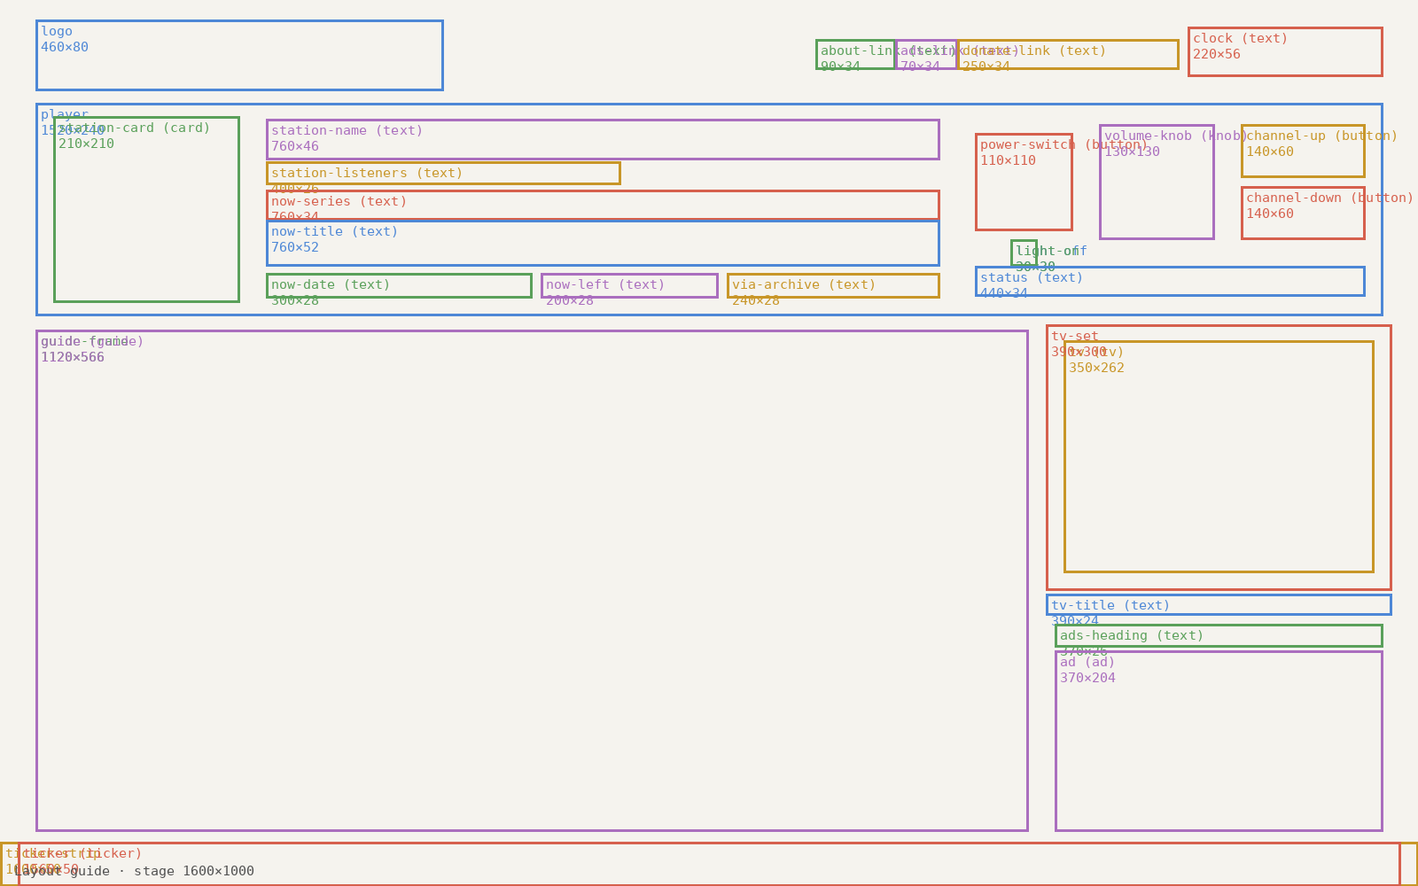
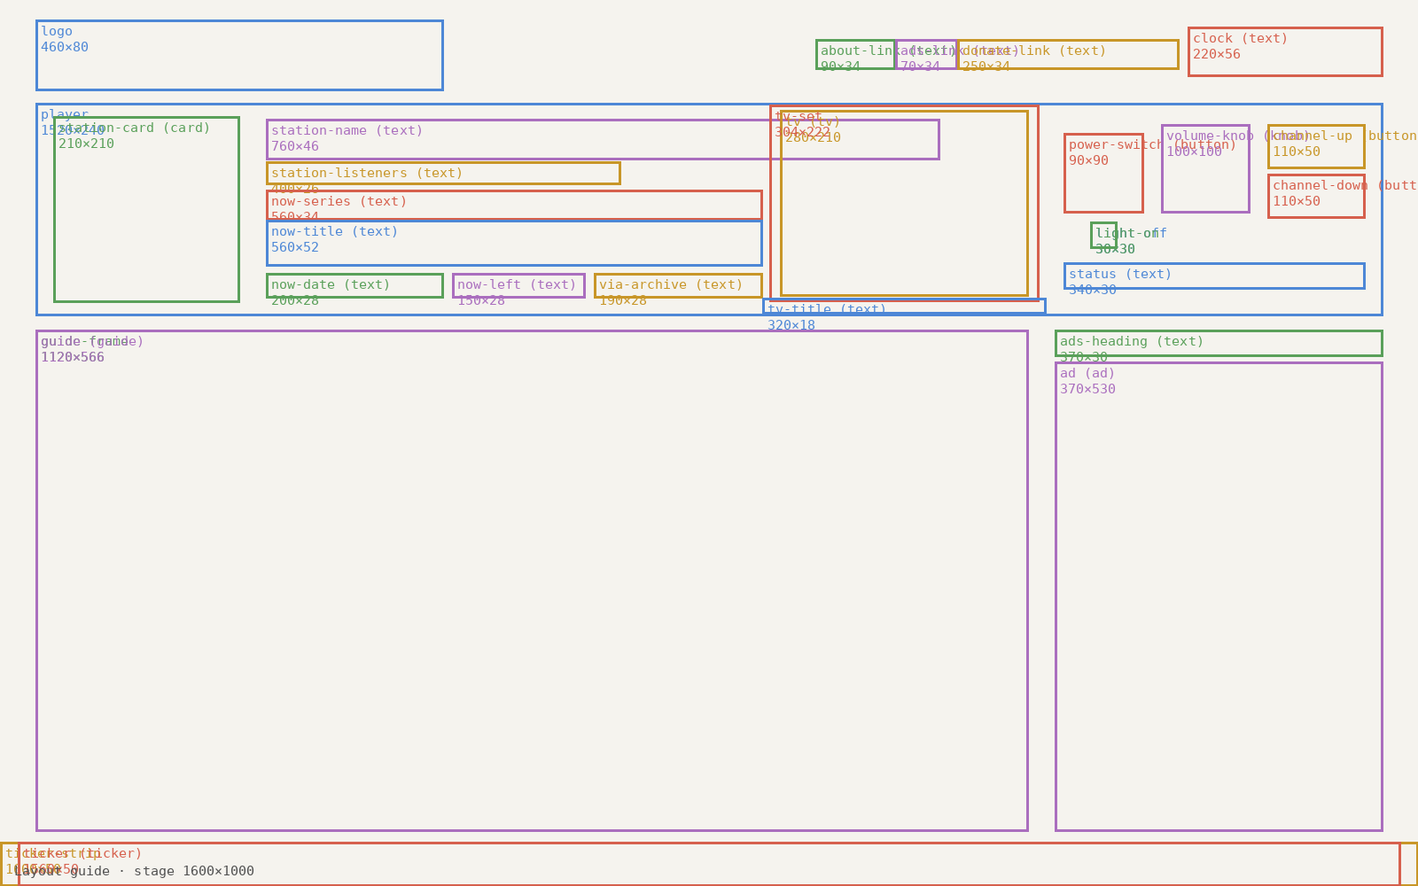
Bigger ads: TV moves into the player panel, click an ad to see it full size
Claude-Session: https://claude.ai/code/session_01UM36a5p91q7GWVyKDjccjV

Changed region(s): [[0.3125, 0.124, 1.0, 0.775]]

diff --git a/skin.js b/skin.js
@@ -6,144 +6,75 @@
    for phones held upright. Press E on the radio to drag pieces into place, then
    "Copy skin.js" and paste the result over this file. README.md lists every option. */
 window.SKIN = {
-  "stage": { "width": 1600, "height": 1000, "color": "#211c18" },
-
-  "fonts": [
-    { "family": "Radio Hand", "src": "art/fonts/your-font.woff2" }
-  ],
-
-  "sound": { "level": true, "declick": 0.5, "tone": 9000 },
-
-  "sounds": {
-    "static": "art/sounds/static.mp3"
-  },
-
+  "stage": {"width":1600,"height":1000,"color":"#211c18"},
+  "fonts": [{"family":"Radio Hand","src":"art/fonts/your-font.woff2"}],
+  "sound": {"level":true,"declick":0.5,"tone":9000},
+  "sounds": {"static":"art/sounds/static.mp3"},
   "layers": [
     { "id": "background", "type": "plate", "src": "art/background.png", "x": 0, "y": 0, "w": 1600, "h": 1000 },
-
     { "id": "logo", "src": "art/logo.png", "x": 40, "y": 22, "w": 460, "h": 80 },
-    { "id": "about-link", "type": "text", "text": "About", "href": "about.html",
-      "x": 920, "y": 44, "w": 90, "h": 34, "font": "Radio Hand", "size": 20, "color": "#e9dcc3", "align": "left" },
-    { "id": "ads-link", "type": "text", "text": "Ads", "href": "ads.html",
-      "x": 1010, "y": 44, "w": 70, "h": 34, "font": "Radio Hand", "size": 20, "color": "#e9dcc3", "align": "left" },
-    { "id": "donate-link", "type": "text", "text": "Donate to the Archive", "href": "https://archive.org/donate",
-      "x": 1080, "y": 44, "w": 250, "h": 34, "font": "Radio Hand", "size": 20, "color": "#e9dcc3", "align": "left" },
-    { "id": "clock", "type": "text", "bind": "clock",
-      "x": 1340, "y": 30, "w": 220, "h": 56, "font": "Radio Hand", "size": 38, "color": "#e9dcc3", "align": "right" },
-
+    { "id": "about-link", "type": "text", "text": "About", "href": "about.html", "x": 920, "y": 44, "w": 90, "h": 34, "font": "Radio Hand", "size": 20, "color": "#e9dcc3", "align": "left" },
+    { "id": "ads-link", "type": "text", "text": "Ads", "href": "ads.html", "x": 1010, "y": 44, "w": 70, "h": 34, "font": "Radio Hand", "size": 20, "color": "#e9dcc3", "align": "left" },
+    { "id": "donate-link", "type": "text", "text": "Donate to the Archive", "href": "https://archive.org/donate", "x": 1080, "y": 44, "w": 250, "h": 34, "font": "Radio Hand", "size": 20, "color": "#e9dcc3", "align": "left" },
+    { "id": "clock", "type": "text", "bind": "clock", "x": 1340, "y": 30, "w": 220, "h": 56, "font": "Radio Hand", "size": 38, "color": "#e9dcc3", "align": "right" },
     { "id": "player", "src": "art/player.png", "x": 40, "y": 116, "w": 1520, "h": 240 },
     { "id": "station-card", "type": "card", "x": 60, "y": 131, "w": 210, "h": 210 },
-    { "id": "station-name", "type": "text", "bind": "station.name",
-      "x": 300, "y": 134, "w": 760, "h": 46, "font": "Radio Hand", "size": 36, "color": "#e9dcc3", "align": "left" },
-    { "id": "station-listeners", "type": "text", "bind": "station.listeners",
-      "x": 300, "y": 182, "w": 400, "h": 26, "font": "Radio Hand", "size": 18, "color": "#b9aa90", "align": "left" },
-    { "id": "now-series", "type": "text", "bind": "now.series",
-      "x": 300, "y": 214, "w": 760, "h": 34, "font": "Radio Hand", "size": 24, "color": "#e9dcc3", "align": "left" },
-    { "id": "now-title", "type": "text", "bind": "now.title",
-      "x": 300, "y": 248, "w": 760, "h": 52, "font": "Radio Hand", "size": 34, "color": "#e9dcc3", "align": "left" },
-    { "id": "now-date", "type": "text", "bind": "now.date",
-      "x": 300, "y": 308, "w": 300, "h": 28, "font": "Radio Hand", "size": 18, "color": "#b9aa90", "align": "left" },
-    { "id": "now-left", "type": "text", "bind": "now.remaining",
-      "x": 610, "y": 308, "w": 200, "h": 28, "font": "Radio Hand", "size": 18, "color": "#b9aa90", "align": "left" },
-    { "id": "via-archive", "type": "text", "text": "via archive.org", "href": "now.item", "when": "tuned",
-      "x": 820, "y": 308, "w": 240, "h": 28, "font": "Radio Hand", "size": 18, "color": "#b9aa90", "align": "left" },
-
-    { "id": "power-switch", "type": "button", "action": "power", "src": "art/power-switch.png",
-      "x": 1100, "y": 150, "w": 110, "h": 110 },
-    { "id": "light-off", "src": "art/light-off.png", "when": "off", "x": 1140, "y": 270, "w": 30, "h": 30 },
-    { "id": "light-on", "src": "art/light-on.png", "when": "on", "x": 1140, "y": 270, "w": 30, "h": 30 },
-    { "id": "volume-knob", "type": "knob", "bind": "volume", "src": "art/knob-volume.png",
-      "x": 1240, "y": 140, "w": 130, "h": 130, "turn": [-140, 140] },
-    { "id": "channel-up", "type": "button", "action": "prev", "src": "art/channel-up.png",
-      "x": 1400, "y": 140, "w": 140, "h": 60 },
-    { "id": "channel-down", "type": "button", "action": "next", "src": "art/channel-down.png",
-      "x": 1400, "y": 210, "w": 140, "h": 60 },
-    { "id": "status", "type": "text", "bind": "status",
-      "x": 1100, "y": 300, "w": 440, "h": 34, "font": "Radio Hand", "size": 20, "color": "#e9dcc3", "align": "center" },
-
+    { "id": "station-name", "type": "text", "bind": "station.name", "x": 300, "y": 134, "w": 760, "h": 46, "font": "Radio Hand", "size": 36, "color": "#e9dcc3", "align": "left" },
+    { "id": "station-listeners", "type": "text", "bind": "station.listeners", "x": 300, "y": 182, "w": 400, "h": 26, "font": "Radio Hand", "size": 18, "color": "#b9aa90", "align": "left" },
+    { "id": "now-series", "type": "text", "bind": "now.series", "x": 300, "y": 214, "w": 560, "h": 34, "font": "Radio Hand", "size": 24, "color": "#e9dcc3", "align": "left" },
+    { "id": "now-title", "type": "text", "bind": "now.title", "x": 300, "y": 248, "w": 560, "h": 52, "font": "Radio Hand", "size": 34, "color": "#e9dcc3", "align": "left" },
+    { "id": "now-date", "type": "text", "bind": "now.date", "x": 300, "y": 308, "w": 200, "h": 28, "font": "Radio Hand", "size": 18, "color": "#b9aa90", "align": "left" },
+    { "id": "now-left", "type": "text", "bind": "now.remaining", "x": 510, "y": 308, "w": 150, "h": 28, "font": "Radio Hand", "size": 18, "color": "#b9aa90", "align": "left" },
+    { "id": "via-archive", "type": "text", "text": "via archive.org", "href": "now.item", "when": "tuned", "x": 670, "y": 308, "w": 190, "h": 28, "font": "Radio Hand", "size": 18, "color": "#b9aa90", "align": "left" },
+    { "id": "power-switch", "type": "button", "action": "power", "src": "art/power-switch.png", "x": 1200, "y": 150, "w": 90, "h": 90 },
+    { "id": "light-off", "src": "art/light-off.png", "when": "off", "x": 1230, "y": 250, "w": 30, "h": 30 },
+    { "id": "light-on", "src": "art/light-on.png", "when": "on", "x": 1230, "y": 250, "w": 30, "h": 30 },
+    { "id": "volume-knob", "type": "knob", "bind": "volume", "src": "art/knob-volume.png", "x": 1310, "y": 140, "w": 100, "h": 100, "turn": [-140,140] },
+    { "id": "channel-up", "type": "button", "action": "prev", "src": "art/channel-up.png", "x": 1430, "y": 140, "w": 110, "h": 50 },
+    { "id": "channel-down", "type": "button", "action": "next", "src": "art/channel-down.png", "x": 1430, "y": 196, "w": 110, "h": 50 },
+    { "id": "status", "type": "text", "bind": "status", "x": 1200, "y": 296, "w": 340, "h": 30, "font": "Radio Hand", "size": 18, "color": "#e9dcc3", "align": "center" },
     { "id": "guide-frame", "src": "art/guide-frame.png", "x": 40, "y": 372, "w": 1120, "h": 566 },
-    { "id": "guide", "type": "guide", "mode": "timeline", "hours": 2,
-      "x": 40, "y": 372, "w": 1120, "h": 566, "rowHeight": 38, "labelWidth": 290,
-      "font": "Radio Hand", "size": 16, "color": "#e9dcc3", "dim": "#a99a83", "highlight": "#f0b44c" },
-
-    { "id": "tv", "type": "tv", "x": 1200, "y": 384, "w": 350, "h": 262, "font": "Radio Hand", "size": 20, "color": "#e9dcc3" },
-    { "id": "tv-set", "src": "art/tv-set.png", "x": 1180, "y": 366, "w": 390, "h": 300 },
-    { "id": "tv-title", "type": "text", "bind": "tv.title", "href": "tv.item",
-      "x": 1180, "y": 670, "w": 390, "h": 24, "font": "Radio Hand", "size": 15, "color": "#b9aa90", "align": "center" },
-
-    { "id": "ads-heading", "type": "text", "text": "A word from our sponsors",
-      "x": 1190, "y": 704, "w": 370, "h": 26, "font": "Radio Hand", "size": 16, "color": "#b9aa90", "align": "center" },
-    { "id": "ad", "type": "ad", "every": 40,
-      "x": 1190, "y": 734, "w": 370, "h": 204, "font": "Radio Hand", "size": 14, "color": "#e9dcc3", "dim": "#a99a83" },
-
+    { "id": "guide", "type": "guide", "mode": "timeline", "hours": 2, "x": 40, "y": 372, "w": 1120, "h": 566, "rowHeight": 38, "labelWidth": 290, "font": "Radio Hand", "size": 16, "color": "#e9dcc3", "dim": "#a99a83", "highlight": "#f0b44c" },
+    { "id": "tv", "type": "tv", "x": 880, "y": 124, "w": 280, "h": 210, "font": "Radio Hand", "size": 20, "color": "#e9dcc3" },
+    { "id": "tv-set", "src": "art/tv-set.png", "x": 868, "y": 118, "w": 304, "h": 222 },
+    { "id": "tv-title", "type": "text", "bind": "tv.title", "href": "tv.item", "x": 860, "y": 336, "w": 320, "h": 18, "font": "Radio Hand", "size": 13, "color": "#b9aa90", "align": "center" },
+    { "id": "ads-heading", "type": "text", "text": "A word from our sponsors", "x": 1190, "y": 372, "w": 370, "h": 30, "font": "Radio Hand", "size": 18, "color": "#b9aa90", "align": "center" },
+    { "id": "ad", "type": "ad", "every": 40, "x": 1190, "y": 408, "w": 370, "h": 530, "font": "Radio Hand", "size": 16, "color": "#e9dcc3", "dim": "#a99a83" },
     { "id": "ticker-strip", "src": "art/ticker-strip.png", "x": 0, "y": 950, "w": 1600, "h": 50 },
-    { "id": "ticker", "type": "ticker", "show": ["listeners", "now"], "speed": 70,
-      "x": 20, "y": 950, "w": 1560, "h": 50, "font": "Radio Hand", "size": 22, "color": "#e9dcc3" },
-
-    { "id": "grain", "type": "plate", "src": "art/grain.png", "blend": "multiply", "opacity": 0.35,
-      "x": 0, "y": 0, "w": 1600, "h": 1000 }
+    { "id": "ticker", "type": "ticker", "show": ["listeners", "now"], "speed": 70, "x": 20, "y": 950, "w": 1560, "h": 50, "font": "Radio Hand", "size": 22, "color": "#e9dcc3" },
+    { "id": "grain", "type": "plate", "src": "art/grain.png", "blend": "multiply", "opacity": 0.35, "x": 0, "y": 0, "w": 1600, "h": 1000 }
   ],
-
   "portrait": {
-    "stage": { "width": 600, "height": 2170, "color": "#211c18", "fit": "width" },
+    "stage": {"width":600,"height":2350,"color":"#211c18","fit":"width"},
     "layers": [
-      { "id": "background", "type": "plate", "src": "art/phone/background.png", "x": 0, "y": 0, "w": 600, "h": 2170 },
+      { "id": "background", "type": "plate", "src": "art/phone/background.png", "x": 0, "y": 0, "w": 600, "h": 2350 },
       { "id": "logo", "src": "art/phone/logo.png", "x": 20, "y": 20, "w": 380, "h": 60 },
-      { "id": "clock", "type": "text", "bind": "clock",
-        "x": 400, "y": 26, "w": 180, "h": 44, "font": "Radio Hand", "size": 28, "color": "#e9dcc3", "align": "right" },
-
+      { "id": "clock", "type": "text", "bind": "clock", "x": 400, "y": 26, "w": 180, "h": 44, "font": "Radio Hand", "size": 28, "color": "#e9dcc3", "align": "right" },
       { "id": "player", "src": "art/phone/player.png", "x": 12, "y": 96, "w": 576, "h": 330 },
       { "id": "station-card", "type": "card", "x": 30, "y": 114, "w": 150, "h": 150 },
-      { "id": "station-name", "type": "text", "bind": "station.name",
-        "x": 196, "y": 114, "w": 380, "h": 36, "font": "Radio Hand", "size": 26, "color": "#e9dcc3", "align": "left" },
-      { "id": "station-listeners", "type": "text", "bind": "station.listeners",
-        "x": 196, "y": 152, "w": 380, "h": 22, "font": "Radio Hand", "size": 15, "color": "#b9aa90", "align": "left" },
-      { "id": "now-series", "type": "text", "bind": "now.series",
-        "x": 196, "y": 180, "w": 380, "h": 30, "font": "Radio Hand", "size": 19, "color": "#e9dcc3", "align": "left" },
-      { "id": "now-title", "type": "text", "bind": "now.title",
-        "x": 196, "y": 212, "w": 380, "h": 62, "font": "Radio Hand", "size": 24, "color": "#e9dcc3", "align": "left" },
-      { "id": "now-date", "type": "text", "bind": "now.date",
-        "x": 30, "y": 280, "w": 260, "h": 24, "font": "Radio Hand", "size": 15, "color": "#b9aa90", "align": "left" },
-      { "id": "now-left", "type": "text", "bind": "now.remaining",
-        "x": 300, "y": 280, "w": 270, "h": 24, "font": "Radio Hand", "size": 15, "color": "#b9aa90", "align": "right" },
-      { "id": "via-archive", "type": "text", "text": "via archive.org", "href": "now.item", "when": "tuned",
-        "x": 30, "y": 308, "w": 260, "h": 24, "font": "Radio Hand", "size": 15, "color": "#b9aa90", "align": "left" },
-
-      { "id": "power-switch", "type": "button", "action": "power", "src": "art/phone/power-switch.png",
-        "x": 30, "y": 344, "w": 64, "h": 64 },
-      { "id": "volume-knob", "type": "knob", "bind": "volume", "src": "art/phone/knob-volume.png",
-        "x": 108, "y": 344, "w": 64, "h": 64, "turn": [-140, 140] },
-      { "id": "status", "type": "text", "bind": "status",
-        "x": 182, "y": 362, "w": 206, "h": 28, "font": "Radio Hand", "size": 15, "color": "#e9dcc3", "align": "center" },
-      { "id": "channel-up", "type": "button", "action": "prev", "src": "art/phone/channel-up.png",
-        "x": 400, "y": 350, "w": 84, "h": 52 },
-      { "id": "channel-down", "type": "button", "action": "next", "src": "art/phone/channel-down.png",
-        "x": 496, "y": 350, "w": 84, "h": 52 },
-
+      { "id": "station-name", "type": "text", "bind": "station.name", "x": 196, "y": 114, "w": 380, "h": 36, "font": "Radio Hand", "size": 26, "color": "#e9dcc3", "align": "left" },
+      { "id": "station-listeners", "type": "text", "bind": "station.listeners", "x": 196, "y": 152, "w": 380, "h": 22, "font": "Radio Hand", "size": 15, "color": "#b9aa90", "align": "left" },
+      { "id": "now-series", "type": "text", "bind": "now.series", "x": 196, "y": 180, "w": 380, "h": 30, "font": "Radio Hand", "size": 19, "color": "#e9dcc3", "align": "left" },
+      { "id": "now-title", "type": "text", "bind": "now.title", "x": 196, "y": 212, "w": 380, "h": 62, "font": "Radio Hand", "size": 24, "color": "#e9dcc3", "align": "left" },
+      { "id": "now-date", "type": "text", "bind": "now.date", "x": 30, "y": 280, "w": 260, "h": 24, "font": "Radio Hand", "size": 15, "color": "#b9aa90", "align": "left" },
+      { "id": "now-left", "type": "text", "bind": "now.remaining", "x": 300, "y": 280, "w": 270, "h": 24, "font": "Radio Hand", "size": 15, "color": "#b9aa90", "align": "right" },
+      { "id": "via-archive", "type": "text", "text": "via archive.org", "href": "now.item", "when": "tuned", "x": 30, "y": 308, "w": 260, "h": 24, "font": "Radio Hand", "size": 15, "color": "#b9aa90", "align": "left" },
+      { "id": "power-switch", "type": "button", "action": "power", "src": "art/phone/power-switch.png", "x": 30, "y": 344, "w": 64, "h": 64 },
+      { "id": "volume-knob", "type": "knob", "bind": "volume", "src": "art/phone/knob-volume.png", "x": 108, "y": 344, "w": 64, "h": 64, "turn": [-140,140] },
+      { "id": "status", "type": "text", "bind": "status", "x": 182, "y": 362, "w": 206, "h": 28, "font": "Radio Hand", "size": 15, "color": "#e9dcc3", "align": "center" },
+      { "id": "channel-up", "type": "button", "action": "prev", "src": "art/phone/channel-up.png", "x": 400, "y": 350, "w": 84, "h": 52 },
+      { "id": "channel-down", "type": "button", "action": "next", "src": "art/phone/channel-down.png", "x": 496, "y": 350, "w": 84, "h": 52 },
       { "id": "tv", "type": "tv", "x": 110, "y": 456, "w": 380, "h": 285, "font": "Radio Hand", "size": 20, "color": "#e9dcc3" },
       { "id": "tv-set", "src": "art/phone/tv-set.png", "x": 90, "y": 440, "w": 420, "h": 320 },
-      { "id": "tv-title", "type": "text", "bind": "tv.title", "href": "tv.item",
-        "x": 12, "y": 762, "w": 576, "h": 22, "font": "Radio Hand", "size": 14, "color": "#b9aa90", "align": "center" },
-
-      { "id": "guide", "type": "guide", "mode": "list",
-        "x": 12, "y": 780, "w": 576, "h": 860, "rowHeight": 64, "labelWidth": 200,
-        "font": "Radio Hand", "size": 19, "color": "#e9dcc3", "dim": "#a99a83", "highlight": "#f0b44c" },
-
-      { "id": "ads-heading", "type": "text", "text": "A word from our sponsors",
-        "x": 12, "y": 1656, "w": 576, "h": 30, "font": "Radio Hand", "size": 17, "color": "#b9aa90", "align": "center" },
-      { "id": "ad", "type": "ad", "every": 40,
-        "x": 60, "y": 1690, "w": 480, "h": 380, "font": "Radio Hand", "size": 15, "color": "#e9dcc3", "dim": "#a99a83" },
-
-      { "id": "about-link", "type": "text", "text": "About", "href": "about.html",
-        "x": 20, "y": 2085, "w": 90, "h": 30, "font": "Radio Hand", "size": 17, "color": "#e9dcc3", "align": "left" },
-      { "id": "ads-link", "type": "text", "text": "Ads", "href": "ads.html",
-        "x": 110, "y": 2085, "w": 60, "h": 30, "font": "Radio Hand", "size": 17, "color": "#e9dcc3", "align": "left" },
-      { "id": "donate-link", "type": "text", "text": "Donate to the Archive", "href": "https://archive.org/donate",
-        "x": 180, "y": 2085, "w": 260, "h": 30, "font": "Radio Hand", "size": 17, "color": "#e9dcc3", "align": "left" },
-
-      { "id": "ticker-strip", "src": "art/phone/ticker-strip.png", "x": 0, "y": 2126, "w": 600, "h": 44 },
-      { "id": "ticker", "type": "ticker", "show": ["listeners", "now"], "speed": 60,
-        "x": 12, "y": 2126, "w": 576, "h": 44, "font": "Radio Hand", "size": 18, "color": "#e9dcc3" }
+      { "id": "tv-title", "type": "text", "bind": "tv.title", "href": "tv.item", "x": 12, "y": 762, "w": 576, "h": 22, "font": "Radio Hand", "size": 14, "color": "#b9aa90", "align": "center" },
+      { "id": "guide", "type": "guide", "mode": "list", "x": 12, "y": 780, "w": 576, "h": 860, "rowHeight": 64, "labelWidth": 200, "font": "Radio Hand", "size": 19, "color": "#e9dcc3", "dim": "#a99a83", "highlight": "#f0b44c" },
+      { "id": "ads-heading", "type": "text", "text": "A word from our sponsors", "x": 12, "y": 1656, "w": 576, "h": 30, "font": "Radio Hand", "size": 17, "color": "#b9aa90", "align": "center" },
+      { "id": "ad", "type": "ad", "every": 40, "x": 20, "y": 1690, "w": 560, "h": 560, "font": "Radio Hand", "size": 15, "color": "#e9dcc3", "dim": "#a99a83" },
+      { "id": "about-link", "type": "text", "text": "About", "href": "about.html", "x": 20, "y": 2265, "w": 90, "h": 30, "font": "Radio Hand", "size": 17, "color": "#e9dcc3", "align": "left" },
+      { "id": "ads-link", "type": "text", "text": "Ads", "href": "ads.html", "x": 110, "y": 2265, "w": 60, "h": 30, "font": "Radio Hand", "size": 17, "color": "#e9dcc3", "align": "left" },
+      { "id": "donate-link", "type": "text", "text": "Donate to the Archive", "href": "https://archive.org/donate", "x": 180, "y": 2265, "w": 260, "h": 30, "font": "Radio Hand", "size": 17, "color": "#e9dcc3", "align": "left" },
+      { "id": "ticker-strip", "src": "art/phone/ticker-strip.png", "x": 0, "y": 2306, "w": 600, "h": 44 },
+      { "id": "ticker", "type": "ticker", "show": ["listeners", "now"], "speed": 60, "x": 12, "y": 2306, "w": 576, "h": 44, "font": "Radio Hand", "size": 18, "color": "#e9dcc3" }
     ]
   }
 };

diff --git a/index.html b/index.html
@@ -80,6 +80,13 @@
   .ad-img img { max-width: 100%; max-height: 100%; width: auto; height: auto; object-fit: contain; opacity: 0; transition: opacity .6s; box-shadow: 0 6px 24px rgba(0,0,0,.45); }
   .ad-cap { padding-top: .5em; font-size: .8em; line-height: 1.3; white-space: nowrap; overflow: hidden; text-overflow: ellipsis; text-align: center; }
   .ad-via { color: var(--g-ink); text-underline-offset: 3px; }
+  .ad-img { cursor: zoom-in; }
+  #ad-zoom { position: fixed; inset: 0; z-index: 20; background: rgba(10, 8, 6, .9); display: flex; flex-direction: column; align-items: center; justify-content: center; gap: 12px;
+             padding: max(16px, env(safe-area-inset-top, 0px)) max(16px, env(safe-area-inset-right, 0px)) max(16px, env(safe-area-inset-bottom, 0px)) max(16px, env(safe-area-inset-left, 0px)); box-sizing: border-box; }
+  #ad-zoom img { max-width: 100%; max-height: calc(100% - 60px); object-fit: contain; box-shadow: 0 10px 40px rgba(0,0,0,.6); }
+  #ad-zoom .zcap { display: flex; flex-wrap: wrap; gap: 8px 16px; align-items: center; justify-content: center; color: #eadfca; font-size: 14px; }
+  #ad-zoom a { color: #eadfca; text-underline-offset: 3px; }
+  #ad-zoom button { font: inherit; background: #eadfca; color: #171310; border: 0; padding: 5px 12px; cursor: pointer; }
   @media (prefers-reduced-motion: reduce) { .ad-img img { transition: none; } }
 
   /* dashed template boxes, shown until your art is in the art folder */
@@ -162,12 +169,12 @@
   <textarea id="p-out" hidden spellcheck="false" aria-label="Output"></textarea>
 </div>
 
-<script src="skin.js?v=20261031b"></script>
-<script src="stations.js?v=20261031b"></script>
-<script src="config.js?v=20261031b"></script>
-<script src="ads.js?v=20261031b"></script>
-<script src="tv.js?v=20261031b"></script>
+<script src="skin.js?v=20261031c"></script>
+<script src="stations.js?v=20261031c"></script>
+<script src="config.js?v=20261031c"></script>
+<script src="ads.js?v=20261031c"></script>
+<script src="tv.js?v=20261031c"></script>
 <script>document.documentElement.style.setProperty("--ground", (window.SKIN.stage.page || window.SKIN.stage.color || "#171310"));</script>
-<script src="radio.js?v=20261031b"></script>
+<script src="radio.js?v=20261031c"></script>
 </body>
 </html>

diff --git a/radio.js b/radio.js
@@ -388,6 +388,7 @@
         img.addEventListener("load", () => { img.style.opacity = 1; });
         el.querySelector(".ad-via").addEventListener("click", e => { if (state.editing) e.preventDefault(); });
         rec.ad = { img, title: el.querySelector(".ad-title"), via: el.querySelector(".ad-via"), cur: -1 };
+        el.querySelector(".ad-img").addEventListener("click", () => { if (!state.editing && rec.ad.cur >= 0) openAd((window.ADS || [])[rec.ad.cur]); });
       } else if (type === "ticker") {
         const run = document.createElement("div"); run.className = "tick";
         const span = document.createElement("span"); run.appendChild(span); el.appendChild(run);
@@ -594,6 +595,22 @@
   document.addEventListener("visibilitychange", () => { if (!document.hidden) render(); });
 
   /* ---------- vintage ads (ads.js) ---------- */
+  function openAd(a) {
+    if (!a) return;
+    let box = document.getElementById("ad-zoom");
+    if (!box) {
+      box = document.createElement("div"); box.id = "ad-zoom"; box.setAttribute("role", "dialog"); box.setAttribute("aria-label", "Ad");
+      box.innerHTML = '<img alt=""><div class="zcap"><span></span><a target="_blank" rel="noopener">via archive.org</a><button type="button">Close</button></div>';
+      document.body.appendChild(box);
+      const close = () => { box.hidden = true; };
+      box.addEventListener("click", e => { if (e.target === box || e.target.tagName === "BUTTON") close(); });
+      window.addEventListener("keydown", e => { if (e.key === "Escape" && !box.hidden) close(); });
+    }
+    box.querySelector("img").src = a.src; box.querySelector("img").alt = a.title;
+    box.querySelector("span").textContent = a.title + (a.date ? ", " + a.date : "");
+    box.querySelector("a").href = a.item || "https://archive.org";
+    box.hidden = false; box.querySelector("button").focus();
+  }
   const AD_EPOCH = Date.parse("2026-11-01T00:00:00Z");
   function renderAd(rec) {
     const A = window.ADS || [], ad = rec.ad;

diff --git a/ads.js b/ads.js
@@ -309,7 +309,6 @@ window.ADS = [
  {"src": "https://archive.org/download/1951-advertisement-for-kodak-cameras/1951%20advertisement%20for%20Kodak%20cameras.png", "title": "Kodak cameras", "date": "1951", "item": "https://archive.org/details/1951-advertisement-for-kodak-cameras"},
  {"src": "https://archive.org/download/NewYorker1926A/New%20Yorker%20-1926A.jpg", "title": "New Yorker", "date": "1926", "item": "https://archive.org/details/NewYorker1926A"},
  {"src": "https://archive.org/download/1948-advertisement-for-lipton-tea/1948%20advertisement%20for%20Lipton%20tea.png", "title": "Lipton tea", "date": "1948", "item": "https://archive.org/details/1948-advertisement-for-lipton-tea"},
- {"src": "https://archive.org/download/1950-advertisement-for-turban-coffee-essence/1950%20advertisement%20for%20Turban%20Coffee%20Essence.png", "title": "Turban Coffee Essence", "date": "1950", "item": "https://archive.org/details/1950-advertisement-for-turban-coffee-essence"},
  {"src": "https://archive.org/download/1958-advertisement-for-daz-laundry-detergent/1958%20advertisement%20for%20Daz%20laundry%20detergent.jpg", "title": "Daz laundry detergent", "date": "1958", "item": "https://archive.org/details/1958-advertisement-for-daz-laundry-detergent"},
  {"src": "https://archive.org/download/1942-advertisement-for-lux-soap/1942%20advertisement%20for%20Lux%20soap.png", "title": "Lux soap", "date": "1942", "item": "https://archive.org/details/1942-advertisement-for-lux-soap"},
  {"src": "https://archive.org/download/OldCrowBourbonWhiskey1943A/Old%20Crow%20Bourbon%20Whiskey%20-1943A.jpg", "title": "Old Crow Bourbon Whiskey", "date": "1943", "item": "https://archive.org/details/OldCrowBourbonWhiskey1943A"},

diff --git a/about.html b/about.html
@@ -73,8 +73,8 @@
   <h2>A note about the shows</h2>
   <p>These programs are played as they were made. Some are frightening, and some carry the attitudes of their time, including stereotypes that were wrong then too. Nothing is rated or filtered.</p>
 </main>
-<script src="stations.js?v=20261031b"></script>
-<script src="config.js?v=20261031b"></script>
+<script src="stations.js?v=20261031c"></script>
+<script src="config.js?v=20261031c"></script>
 <script>
   (function () {
     var box = document.getElementById("stations");

diff --git a/ads.html b/ads.html
@@ -53,7 +53,7 @@
     <div class="row"><span id="v-title"></span><a id="v-via" target="_blank" rel="noopener">via archive.org</a><button id="v-close" type="button">Close</button></div>
   </div>
 </dialog>
-<script src="ads.js?v=20261031b"></script>
+<script src="ads.js?v=20261031c"></script>
 <script>
   (function () {
     var ADS = (window.ADS || []).slice().sort(function (a, b) { return (a.date || "").localeCompare(b.date || "") || a.title.localeCompare(b.title); });
